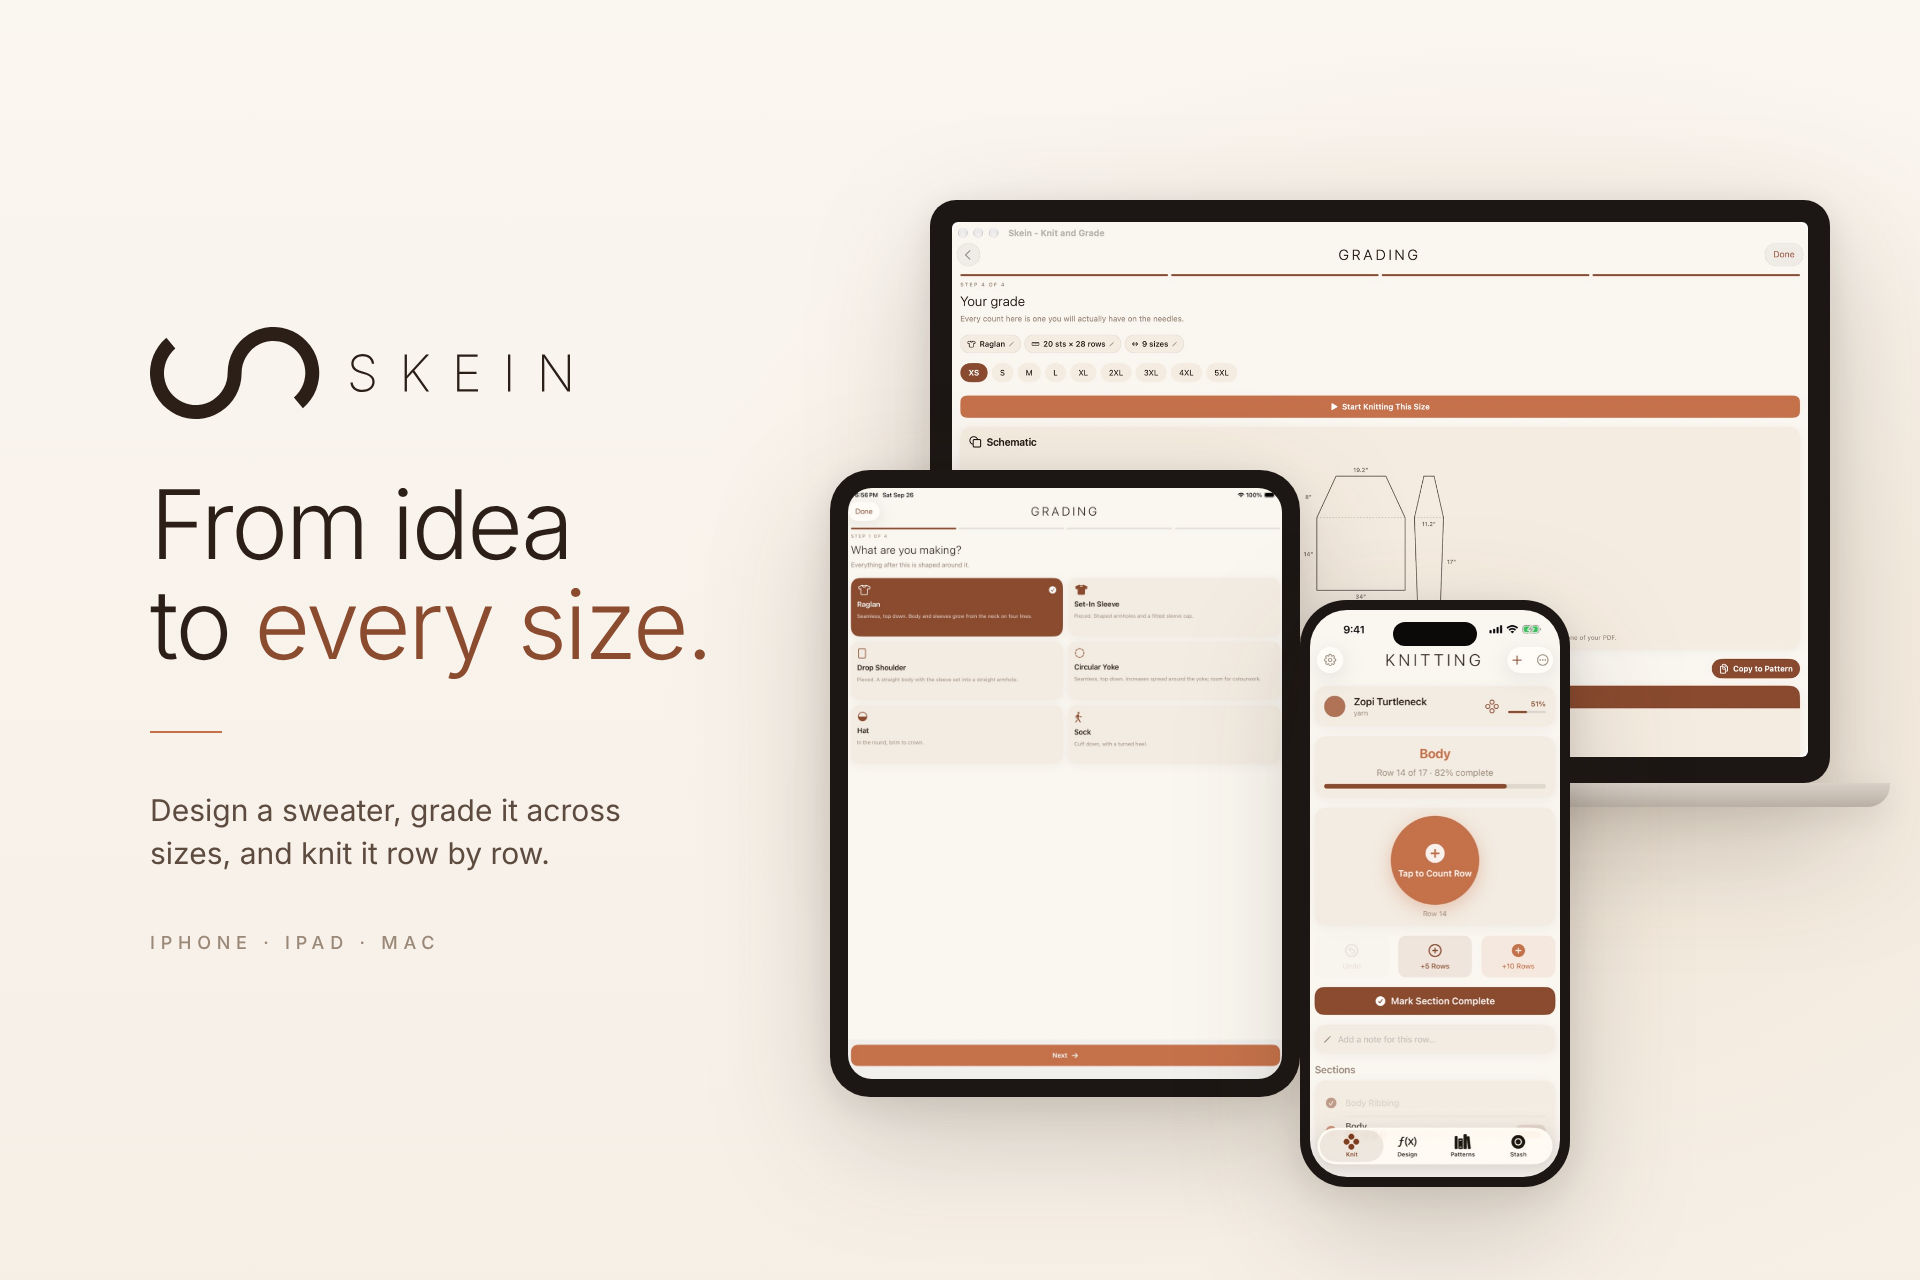
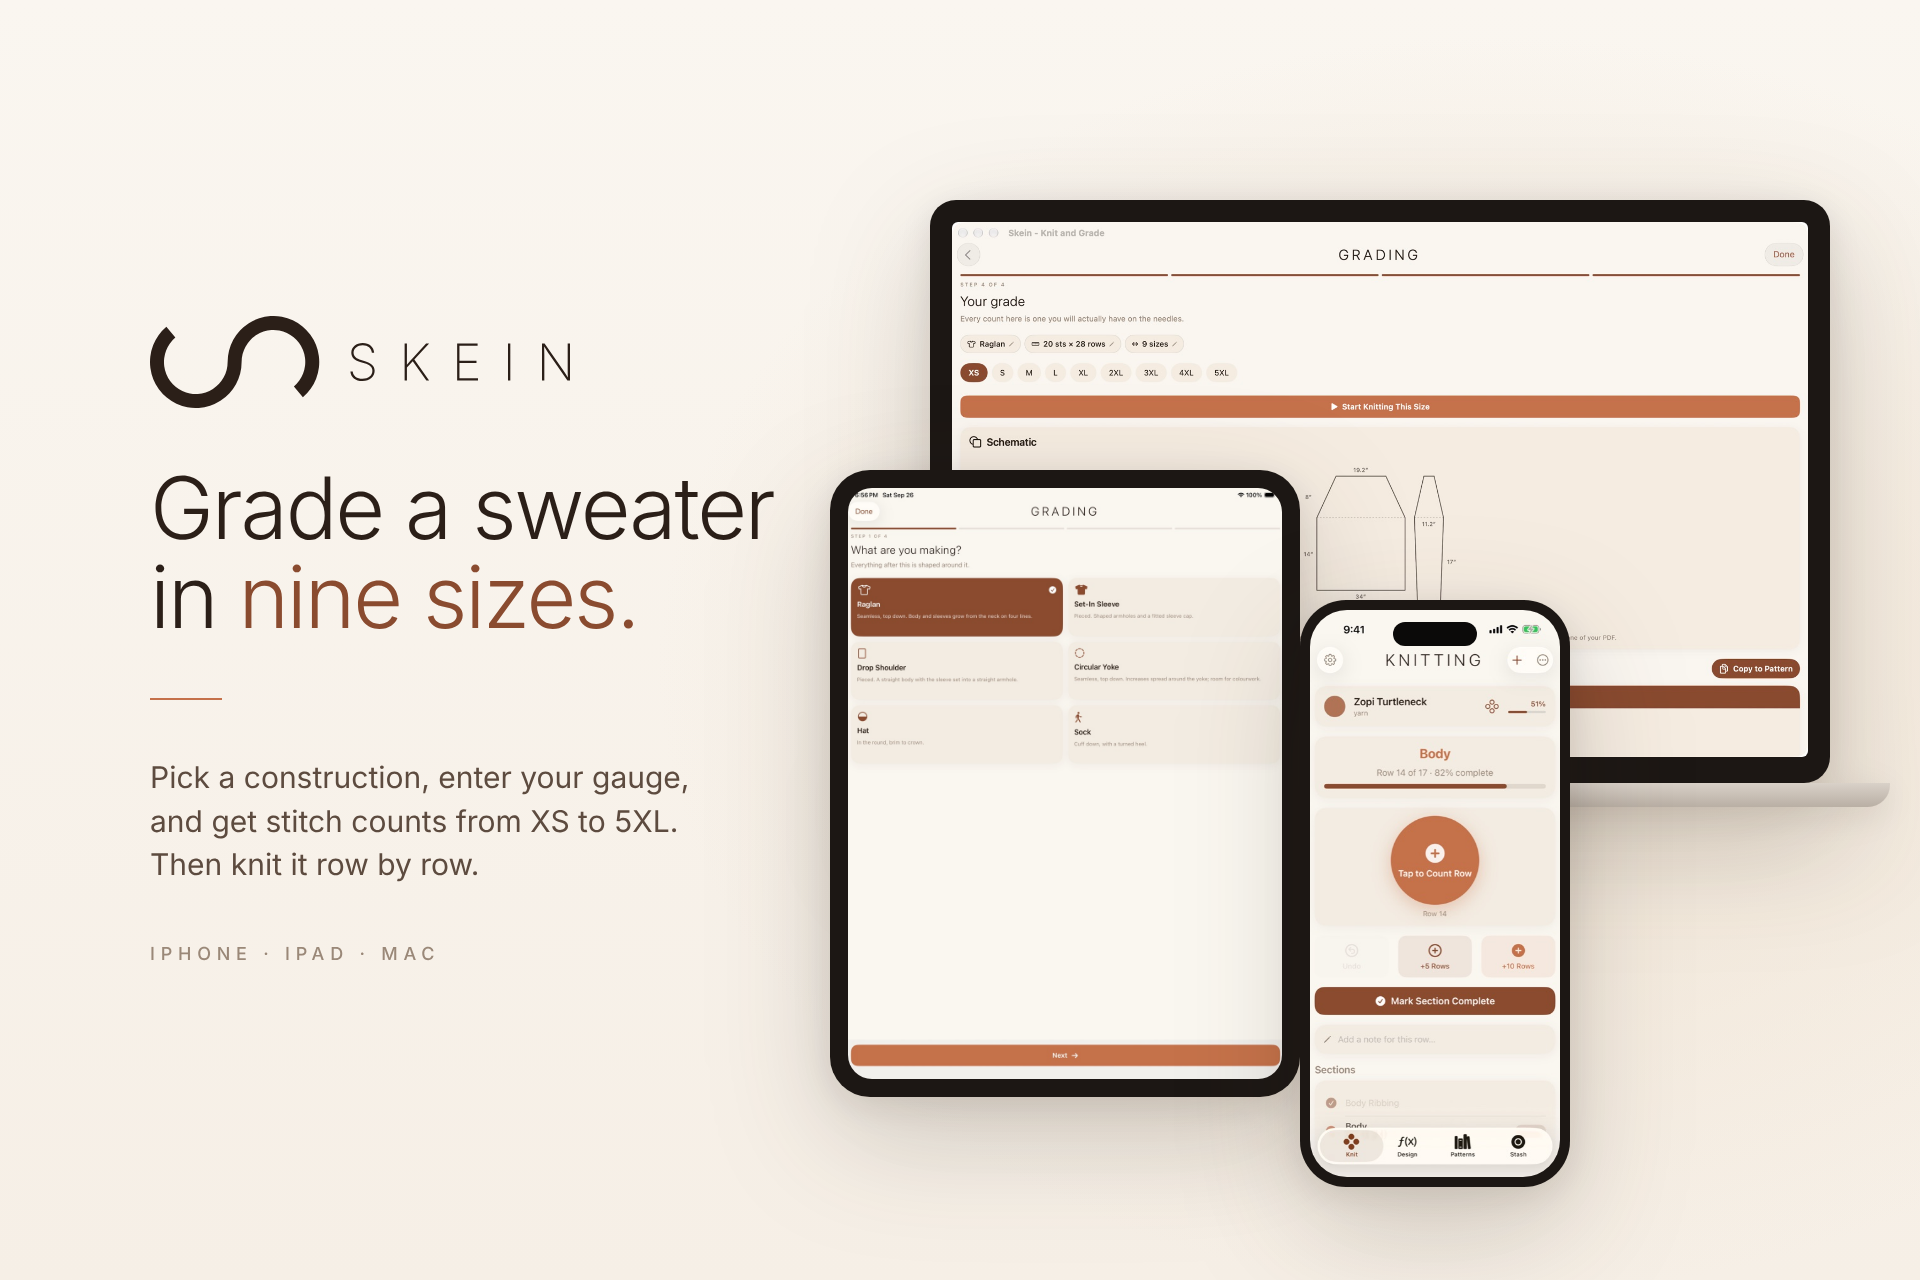
Search results asset: replace headline with a concrete one
Claude-Session: https://claude.ai/code/session_014KQazTv9xwTWXeo9WC8L3s

diff --git a/brand/app-store/search-results.html b/brand/app-store/search-results.html
@@ -9,7 +9,7 @@ body{font-family:Inter,sans-serif;color:var(--ink);
              linear-gradient(180deg,var(--cream) 0%,#F6EFE6 100%);position:relative}
 .copy{position:absolute;left:150px;top:0;bottom:0;width:640px;display:flex;flex-direction:column;justify-content:center;gap:56px}
 .lockup{width:420px}
-h1{font-weight:300;font-size:96px;line-height:1.04;letter-spacing:-.025em}
+h1{white-space:nowrap;font-weight:300;font-size:86px;line-height:1.04;letter-spacing:-.025em}
 h1 em{font-style:normal;color:var(--chestnut)}
 .rule{width:72px;height:2px;background:var(--clay)}
 .sub{font-size:30px;line-height:1.45;font-weight:400;color:#5d4b3f;max-width:540px}
@@ -33,9 +33,9 @@ h1 em{font-style:normal;color:var(--chestnut)}
 <body>
   <div class="copy">
     <img class="lockup" src="../skein-lockup-horizontal-ink.svg" alt="Skein">
-    <h1>From idea<br>to <em>every size.</em></h1>
+    <h1>Grade a sweater<br>in <em>nine sizes.</em></h1>
     <div class="rule"></div>
-    <p class="sub">Design a sweater, grade it across sizes, and knit it row by row.</p>
+    <p class="sub">Pick a construction, enter your gauge, and get stitch counts from XS to 5XL. Then knit it row by row.</p>
     <p class="tag">iPhone · iPad · Mac</p>
   </div>
   <div class="dev mac"><div class="lid"><div class="s"><img src="../../img/app/mac-grade-results.jpg"></div></div><div class="base"></div></div>
